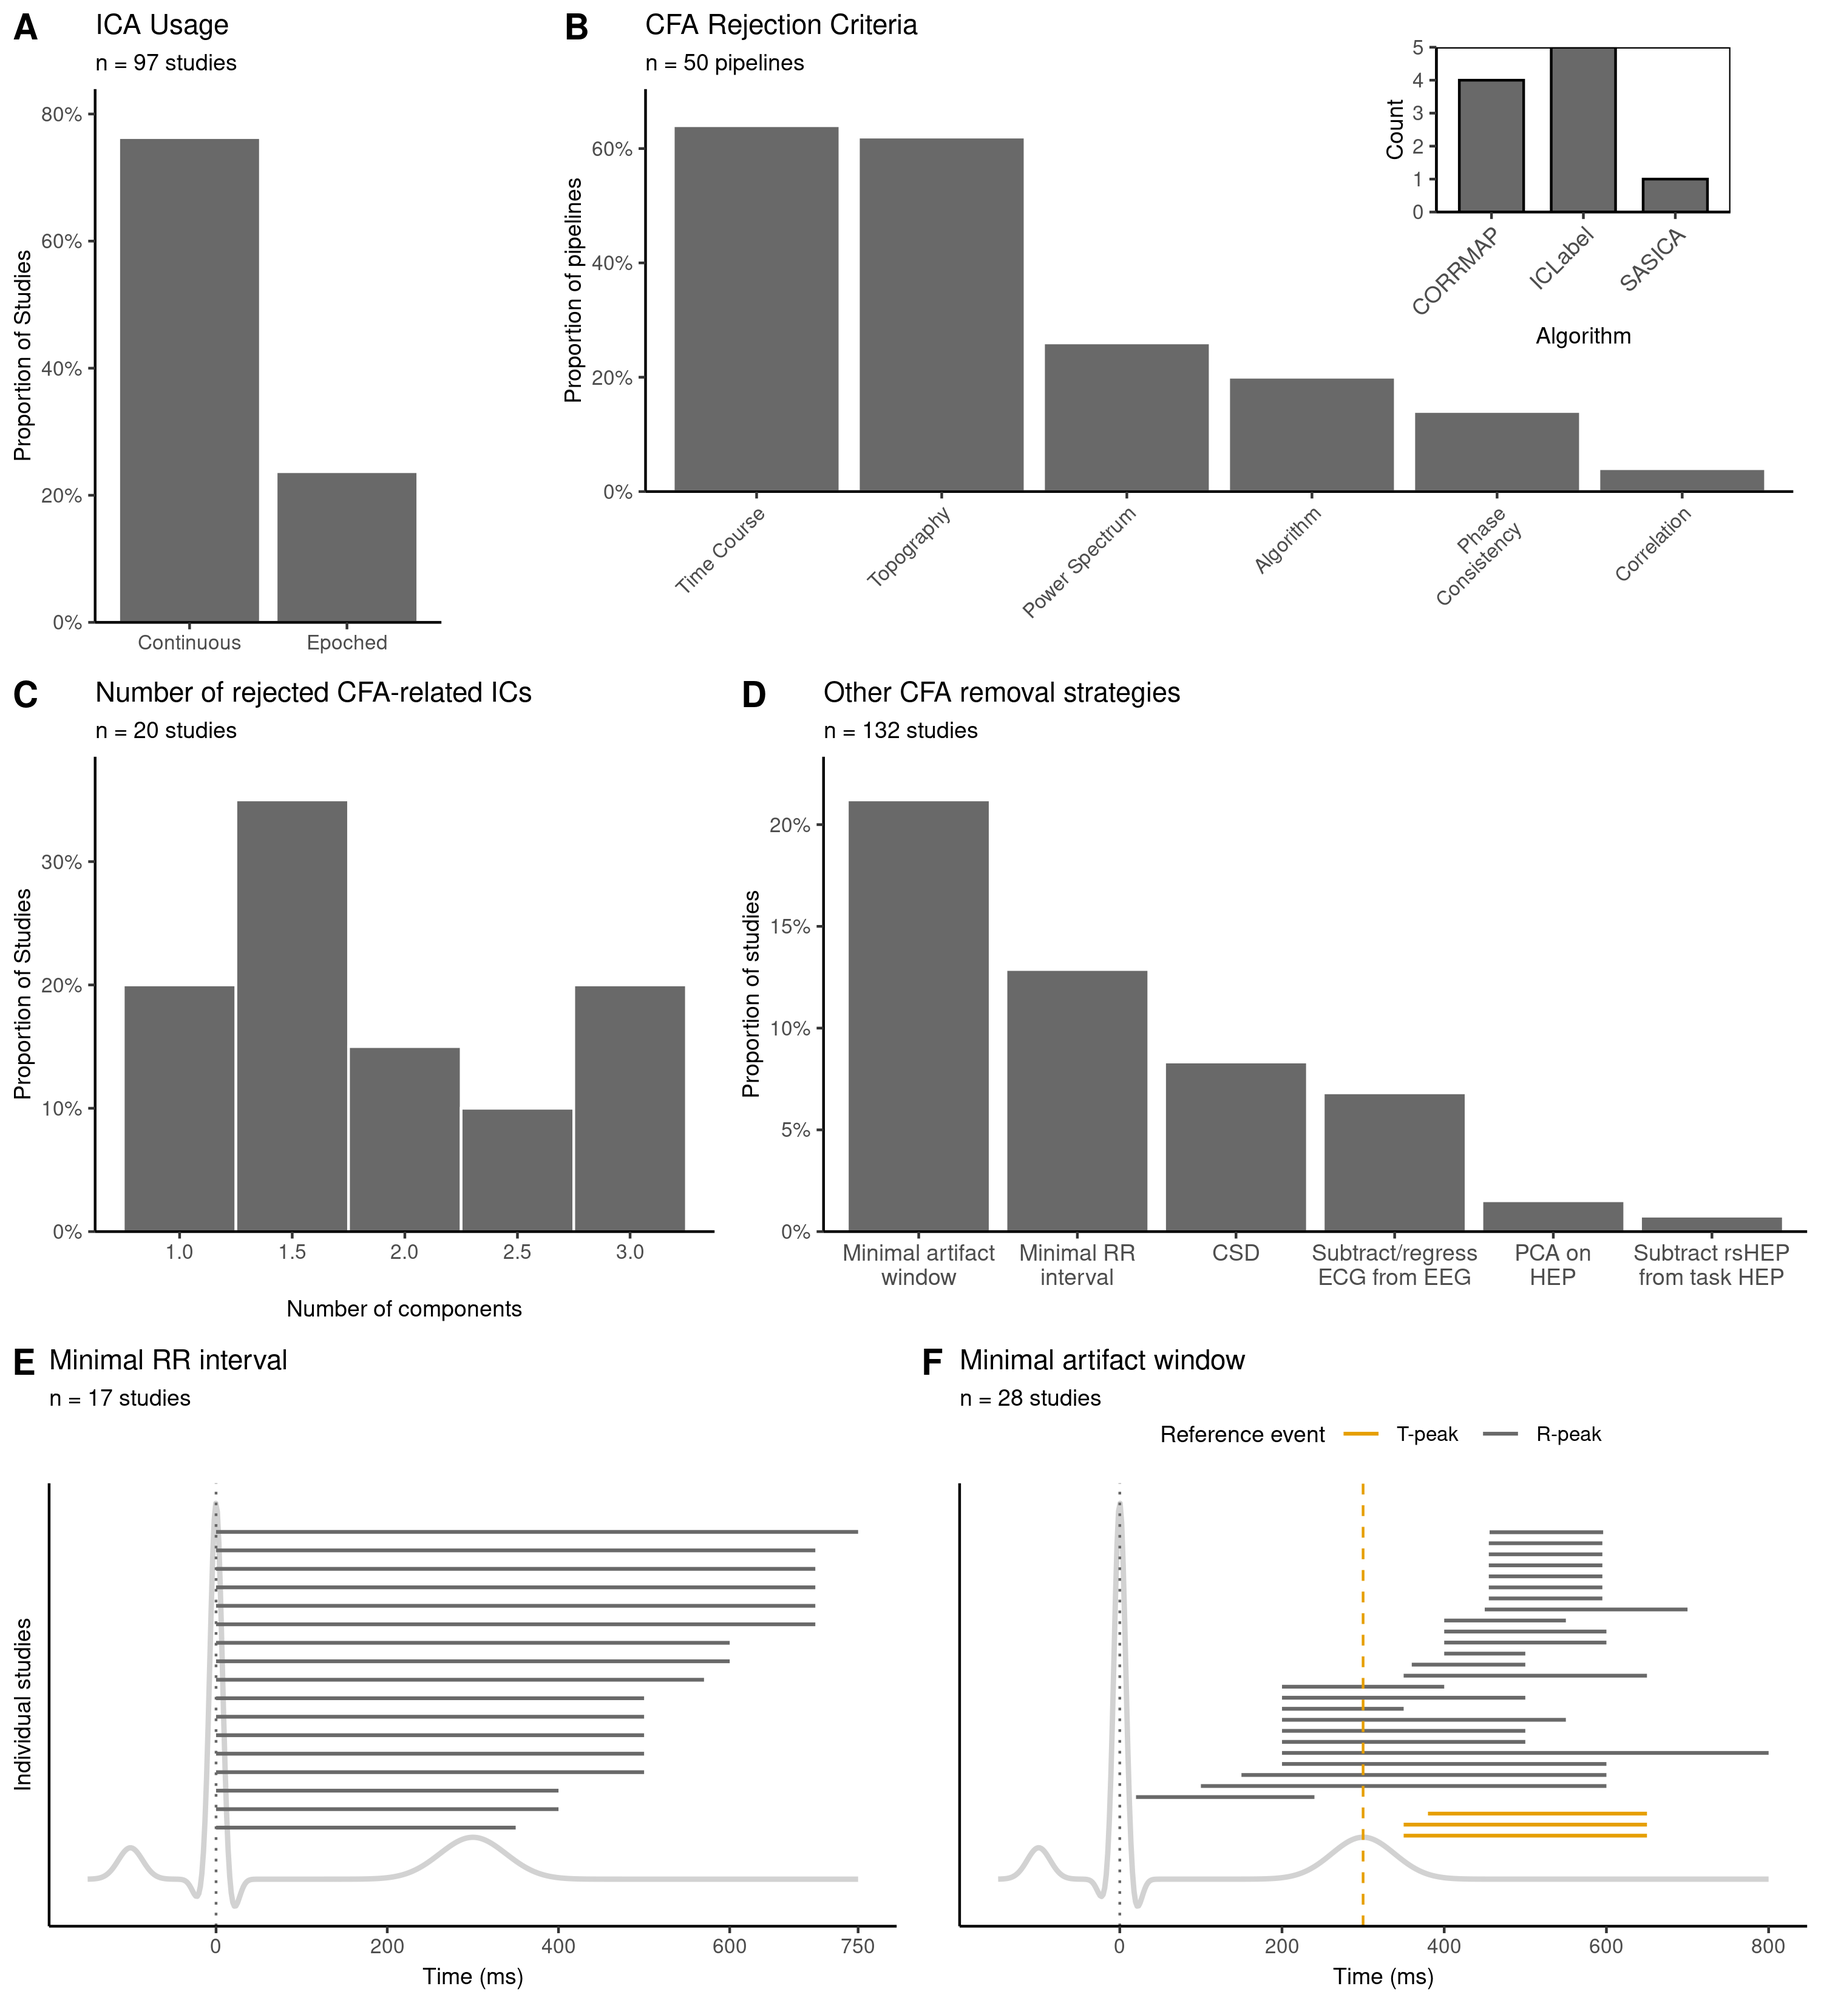
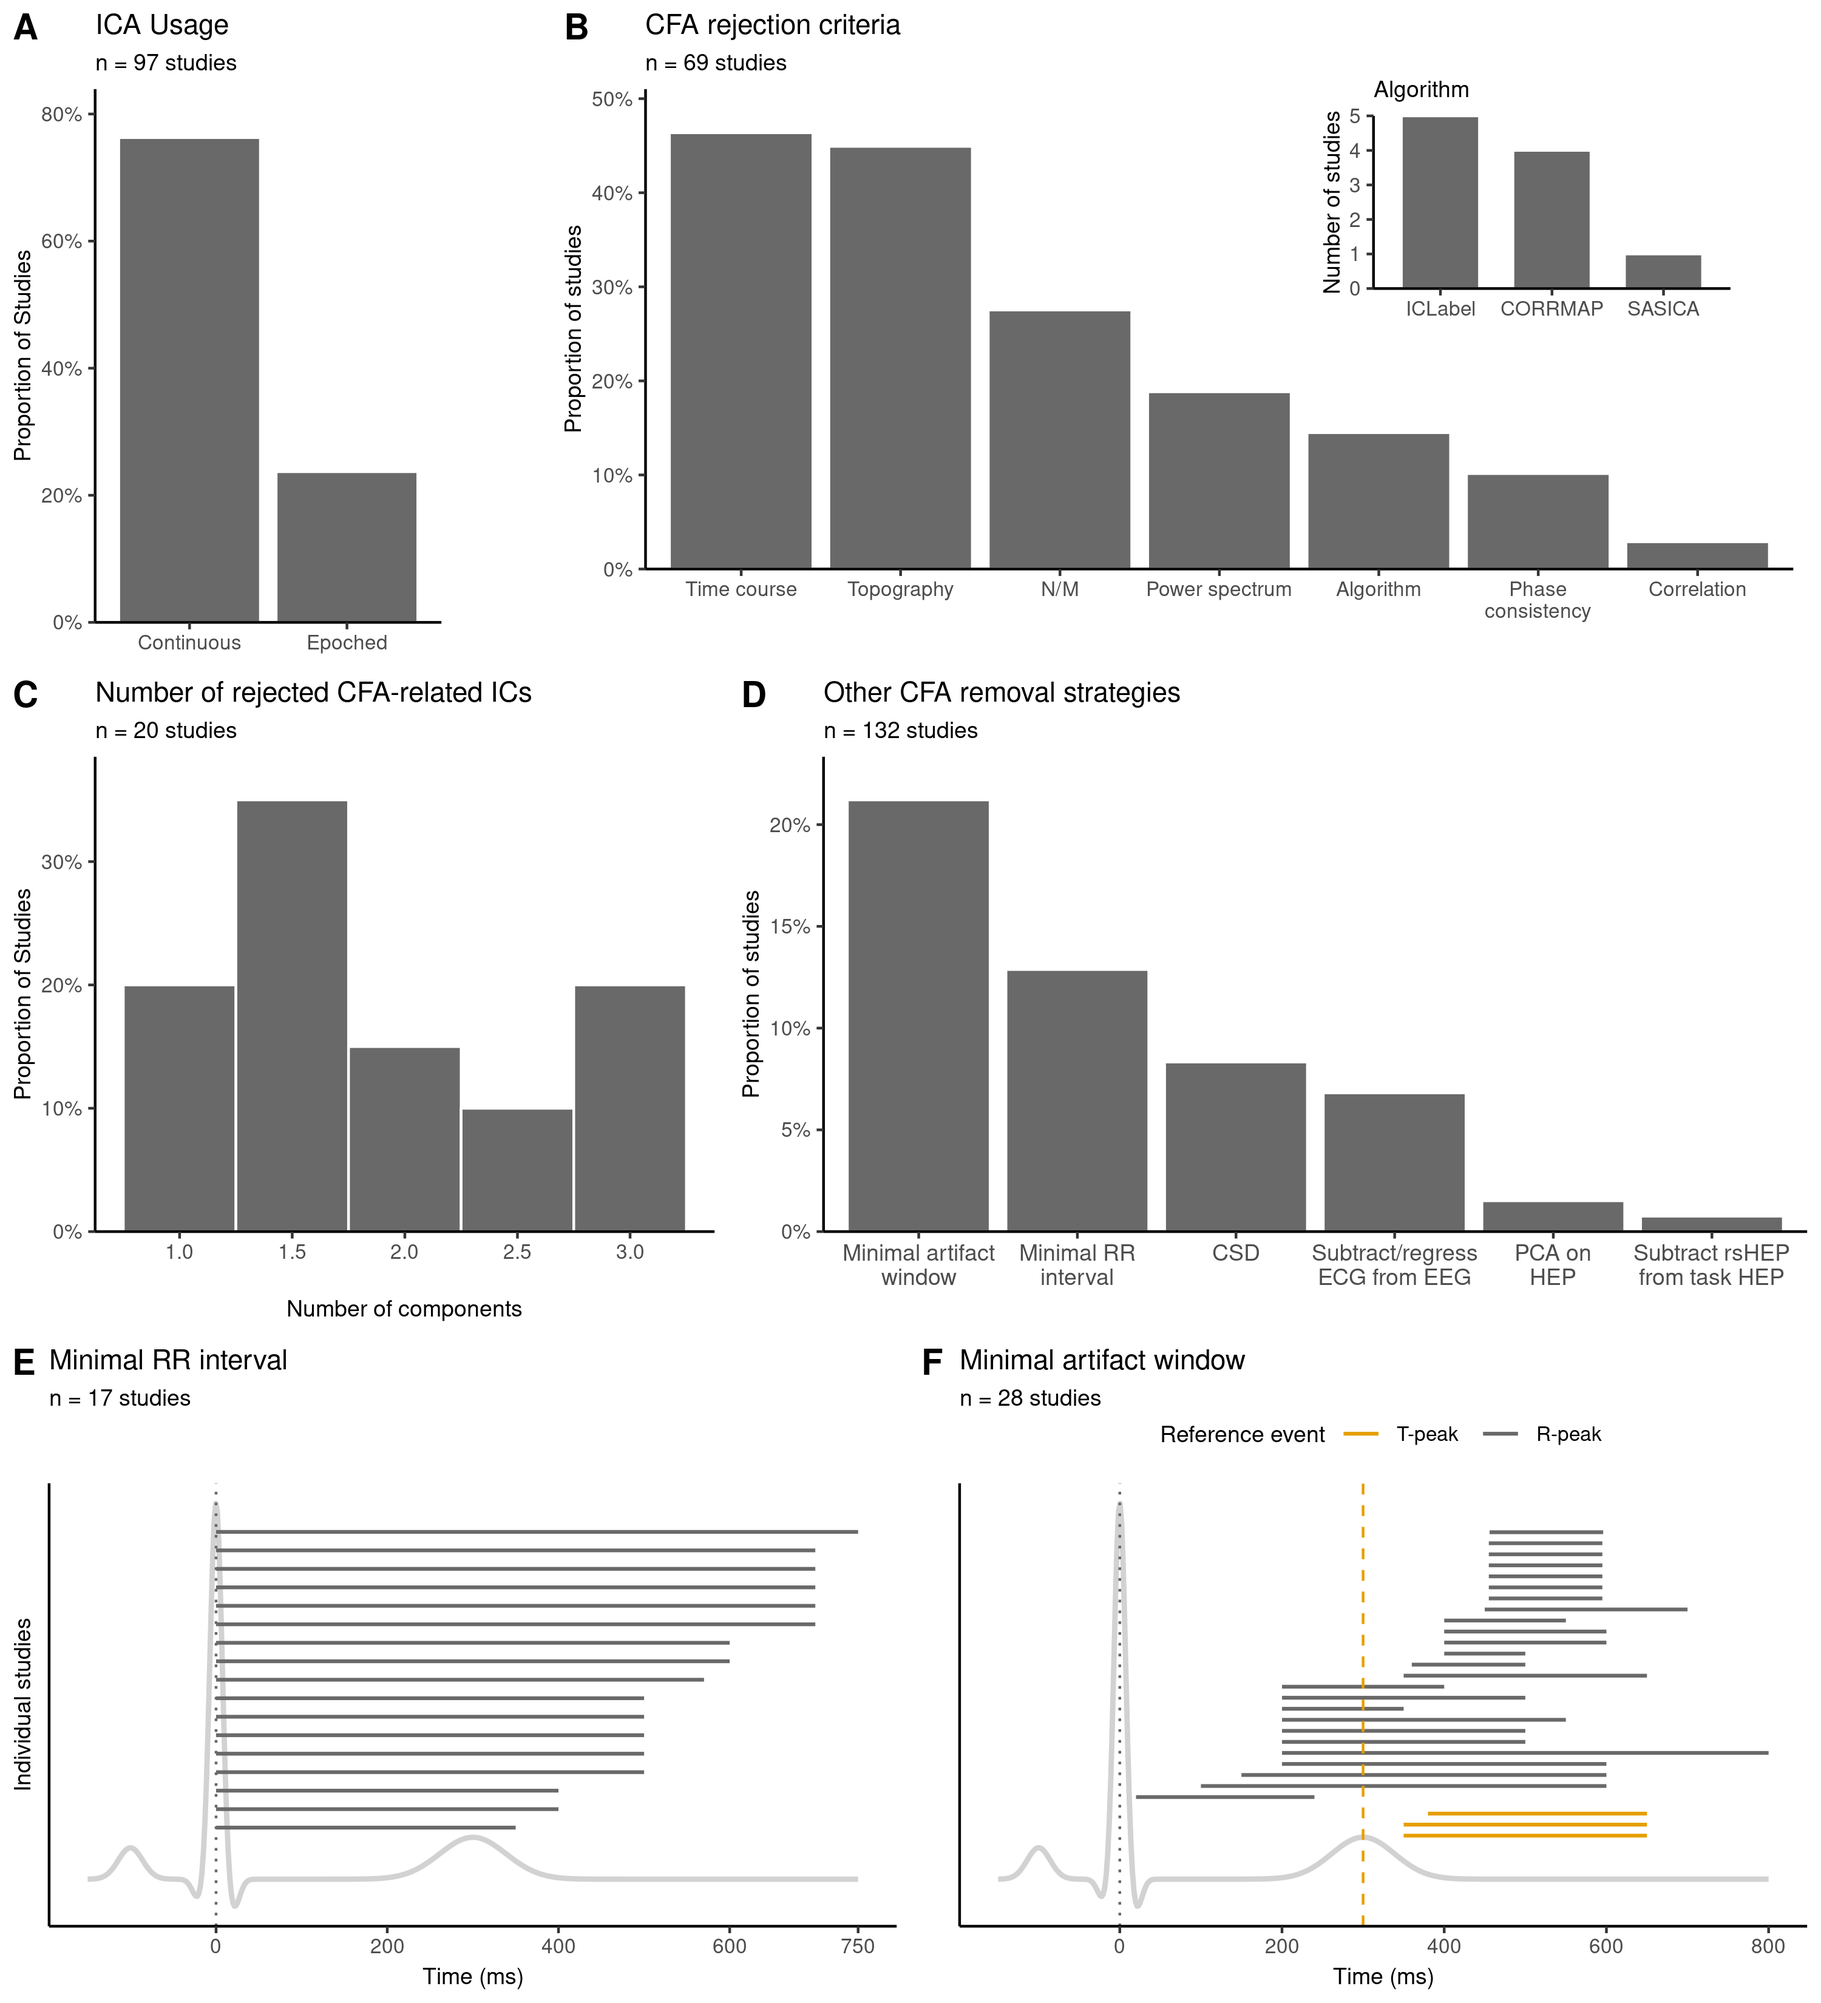
Figure 5, CFA rejection criteria

Changed region(s): [[0.31, 0.0, 0.992, 0.3121], [0.372, 0.0, 0.496, 0.0312]]

diff --git a/results/manuscript_statistics.html b/results/manuscript_statistics.html
@@ -293,7 +293,22 @@ time windows, or statistical approaches).</li>
 </div>
 <div id="cfa-rejection-criteria" class="section level3">
 <h3>CFA rejection criteria</h3>
-<p>TODO</p>
+<ul>
+<li>Time course: <strong>46%</strong> (<strong>32</strong> /
+<strong>69</strong> studies)</li>
+<li>Topography: <strong>45%</strong> (<strong>31</strong> /
+<strong>69</strong> studies)</li>
+<li>N/M: <strong>28%</strong> (<strong>19</strong> / <strong>69</strong>
+studies)</li>
+<li>Power spectrum: <strong>19%</strong> (<strong>13</strong> /
+<strong>69</strong> studies)</li>
+<li>Algorithm: <strong>14%</strong> (<strong>10</strong> /
+<strong>69</strong> studies)</li>
+<li>Phase consistency: <strong>10%</strong> (<strong>7</strong> /
+<strong>69</strong> studies)</li>
+<li>Correlation: <strong>2.9%</strong> (<strong>2</strong> /
+<strong>69</strong> studies)</li>
+</ul>
 </div>
 <div id="removal-of-cfa-related-ics" class="section level3">
 <h3>Removal of CFA-related ICs</h3>
@@ -302,20 +317,6 @@ time windows, or statistical approaches).</li>
 <strong>69</strong>) studies</li>
 <li>Range: <strong>1</strong> - <strong>3</strong>, median = 1.7</li>
 </ul>
-</div>
-<div id="studies-with-any-cfa-approach" class="section level3">
-<h3>Studies With Any CFA Approach</h3>
-<ul>
-<li>Studies with any CFA approach: <strong>79.5</strong>% (105/132)</li>
-</ul>
-</div>
-<div id="cfa-identification-criteria" class="section level3">
-<h3>CFA Identification Criteria</h3>
-<p>CFA criteria (pipelines): * Time Course: <strong>64%</strong> (32/50)
-* Topography: <strong>62%</strong> (31/50) * Power Spectrum:
-<strong>26%</strong> (13/50) * Correlation: <strong>4%</strong> (2/50) *
-Algorithm: <strong>20%</strong> (10/50) * Phase Consistency:
-<strong>14%</strong> (7/50)</p>
 </div>
 <div id="other-cfa-removal-strategies" class="section level3">
 <h3>Other CFA removal strategies</h3>
